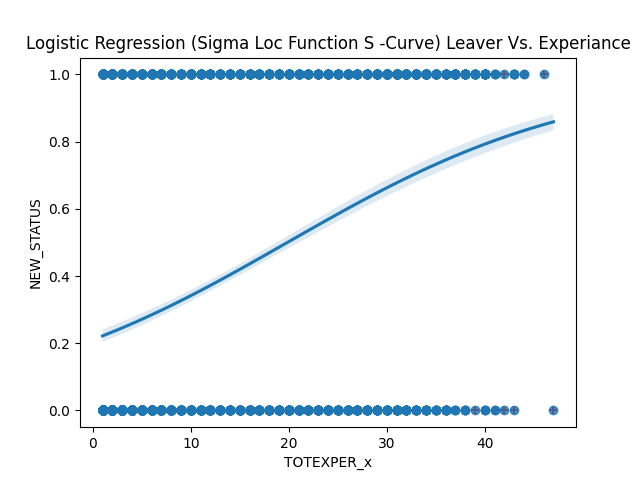
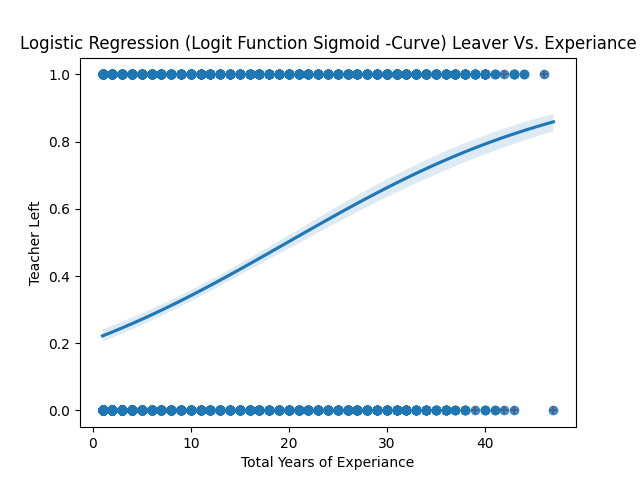
Added Continuous Variable to Multi Logit Regress

Changed region(s): [[0.0312, 0.0625, 1.0, 0.125], [0.375, 0.9375, 0.6562, 1.0], [0.0312, 0.4062, 0.0625, 0.5938]]

diff --git a/the_code/logistical_regression_multi.py b/the_code/logistical_regression_multi.py
@@ -123,33 +123,33 @@ def regressMulti6():
 
 
 def regressMulti7():
-    model = smf.logit('NEW_STATUS ~ C(F0119) + C(T0186) + C(S1628) + C(AGE_T_x) + C(S0287) + C(T0178) + C(T0080) + C(EARNALL) + C(T0329) + C(T0330) + C(T0332) + C(T0333) +C(T0336) +C(T0336) +C(T0155) +C(T0157) +C(T0182) +C(T0184) +C(T0159) +C(T0165) +C(T0174)', data = df).fit()
+    model = smf.logit('NEW_STATUS ~ C(F0119) + C(T0186) + C(S1628) + C(AGE_T_x) + C(S0287) + C(T0178) + C(T0080) + C(EARNALL) + C(T0329) + C(T0330) + C(T0332) + C(T0333) +C(T0336) +C(T0336) +C(T0155) +C(T0157) +C(T0182) +C(T0184) +C(T0159) +C(T0165) +C(T0174) + TOTEXPER_x', data = df).fit()
     print(model.summary(yname="Status Leaver",
     xname=['Intercept', 'Not Pleased Prof Dev (Overall)', 'No salary increase becasue of prof dev (Overall)', 'No Free Training Avaliable (Overall)',
     'Younger than 40 (Overall)', '20 percent or more free lunch (Overall)','Not useful prof dev (Overall)', 'No Masters Degree (Overall)',
     'Teachers that make less than 39,999k (Overall)', 'Student Alcohol Abuse Problem', 'Student Drug Abuse Problem', 'Disrespect Towards Teachers', 'Problem with dropouts',
-    'Problem With Poverty', 'No Mentorship or Couching', 'No Prof Dev Workshops', 'No Tuition reimbersement', 'No reimbersement daily expenses',
-    'No Prof Dev Main Assign', 'No Prof Dev Methods', 'No Prof Dev Student Discipline'], 
+    'Problem With Poverty', 'No Mentorship or Coaching', 'No Prof Dev Workshops', 'No Tuition reimbersement', 'No reimbersement daily expenses',
+    'No Prof Dev Main Assign', 'No Prof Dev Methods', 'No Prof Dev Student Discipline', 'Total Years of Experiance'], 
     title=' Multiple Linear Regression on F0119, T0186, S1628, AGE_T_x, S0287, T0178 (Overall)'))
     print()
 
-    model = smf.logit('NEW_STATUS ~ C(F0119) + C(T0186) + C(S1628) + C(AGE_T_x) + C(S0287) + C(T0178) + C(T0080) + C(EARNALL) + C(T0329) + C(T0330) + C(T0332) + C(T0333) +C(T0336) +C(T0336) +C(T0155) +C(T0157) +C(T0182) +C(T0184) +C(T0159) +C(T0165) +C(T0174)', data = df1).fit()
+    model = smf.logit('NEW_STATUS ~ C(F0119) + C(T0186) + C(S1628) + C(AGE_T_x) + C(S0287) + C(T0178) + C(T0080) + C(EARNALL) + C(T0329) + C(T0330) + C(T0332) + C(T0333) +C(T0336) +C(T0336) +C(T0155) +C(T0157) +C(T0182) +C(T0184) +C(T0159) +C(T0165) +C(T0174) + TOTEXPER_x', data = df1).fit()
     print(model.summary(yname="Status Leaver",
     xname=['Intercept', 'Not Pleased Prof Dev (Male)', 'No salary increase becasue of prof dev (Male)', 'No Free Training Avaliable (Male)',
     'Younger than 40 (Male)', '20 percent or more free lunch (Male)','Not useful prof dev (Female)', 'No Masters Degree (Male)',
     'Teachers that make less than 39,999k (Male)', 'Student Alcohol Abuse Problem', 'Student Drug Abuse Problem', 'Disrespect Towards Teachers', 'Problem with dropouts',
-    'Problem With Poverty', 'No Mentorship or Couching', 'No Prof Dev Workshops', 'No Tuition reimbersement', 'No reimbersement daily expenses',
-    'No Prof Dev Main Assign', 'No Prof Dev Methods', 'No Prof Dev Student Discipline'], 
+    'Problem With Poverty', 'No Mentorship or Coaching', 'No Prof Dev Workshops', 'No Tuition reimbersement', 'No reimbersement daily expenses',
+    'No Prof Dev Main Assign', 'No Prof Dev Methods', 'No Prof Dev Student Discipline', 'Total Years of Experiance'], 
     title=' Multiple Linear Regression on F0119, T0186, S1628, AGE_T_x, S0287, T0178 (Male)'))
     print()
 
-    model = smf.logit('NEW_STATUS ~ C(F0119) + C(T0186) + C(S1628) + C(AGE_T_x) + C(S0287) + C(T0178) + C(T0080) + C(EARNALL) + C(T0329) + C(T0330) + C(T0332) + C(T0333) +C(T0336) +C(T0336) +C(T0155) +C(T0157) +C(T0182) +C(T0184) +C(T0159) +C(T0165) +C(T0174)', data = df2).fit()
+    model = smf.logit('NEW_STATUS ~ C(F0119) + C(T0186) + C(S1628) + C(AGE_T_x) + C(S0287) + C(T0178) + C(T0080) + C(EARNALL) + C(T0329) + C(T0330) + C(T0332) + C(T0333) +C(T0336) +C(T0336) +C(T0155) +C(T0157) +C(T0182) +C(T0184) +C(T0159) +C(T0165) +C(T0174) + TOTEXPER_x', data = df2).fit()
     print(model.summary(yname="Status Leaver",
     xname=['Intercept', 'Not Pleased Prof Dev (Female)', 'No salary increase becasue of prof dev (Female)', 'No Free Training Avaliable (Female)',
     'Younger than 40 (Female)', '20 percent or more free lunch (Female)','Not useful prof dev (Female)', 'No Masters Degree (Female)',
     'Teachers that make less than 39,999k (Female)','Student Alcohol Abuse Problem', 'Student Drug Abuse Problem', 'Disrespect Towards Teachers', 'Problem with dropouts',
-    'Problem With Poverty', 'No Mentorship or Couching', 'No Prof Dev Workshops', 'No Tuition reimbersement', 'No reimbersement daily expenses',
-    'No Prof Dev Main Assign', 'No Prof Dev Methods', 'No Prof Dev Student Discipline'], 
+    'Problem With Poverty', 'No Mentorship or Coaching', 'No Prof Dev Workshops', 'No Tuition reimbersement', 'No reimbersement daily expenses',
+    'No Prof Dev Main Assign', 'No Prof Dev Methods', 'No Prof Dev Student Discipline', 'Total Years of Experiance'], 
     title=' Multiple Linear Regression on F0119, T0186, S1628, AGE_T_x, S0287, T0178 (Female)'))
     print()
 
@@ -172,6 +172,8 @@ def logiGraph(): # Need to try it with a continuous variable for independent
     print(rank) # Value of 1.0 should be perfect. Currently it is 0.5691
     sns.regplot(x='T0157', y='NEW_STATUS', data=df, logistic=True)
     plt.title("Logistic Regression (Logit Function Sigmoid -Curve) Leaver Vs. No mentorship ")
+    plt.ylabel('Teacher Left')
+    plt.xlabel('No Mentorship or Coaching')
     plt.show(block=False)
     plt.savefig('profiling/no_mentorship_logi_graph.png')
     plt.pause(2)
@@ -196,6 +198,8 @@ def logiGraph2(): # Contiuous Variable
     # print(probability)
     sns.regplot(x='TOTEXPER_x', y='NEW_STATUS', data=df, logistic=True)
     plt.title("Logistic Regression (Logit Function Sigmoid -Curve) Leaver Vs. Experiance")
+    plt.ylabel('Teacher Left')
+    plt.xlabel('Total Years of Experiance')
     plt.show(block=False)
     plt.savefig('profiling/total_experiance_logi_graph.png')
     plt.pause(2)
@@ -209,6 +213,6 @@ def logiGraph2(): # Contiuous Variable
 # regressMulti4()
 # regressMulti5()
 # regressMulti6()
-# regressMulti7()
+regressMulti7()
 logiGraph()
 logiGraph2()
